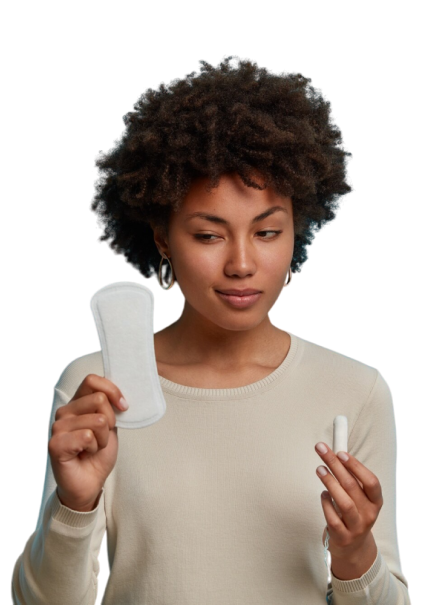
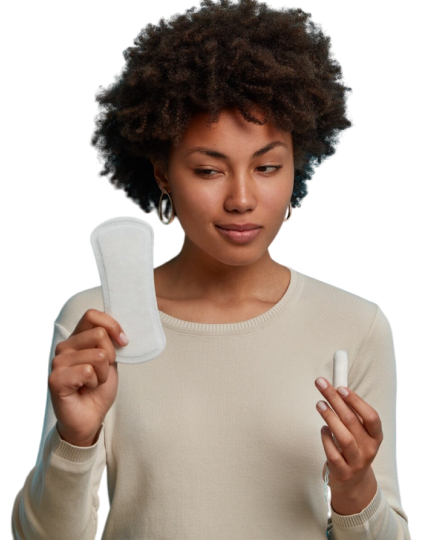
upate

diff --git a/src/app/pre-launch-2/page.tsx b/src/app/pre-launch-2/page.tsx
@@ -152,11 +152,11 @@ function Hero() {
                 name="email"
                 autoComplete="on"
                 placeholder="Enter your email"
-                className="bg-white text-xs md:text-base font-montserrat rounded-[10px] border border-[#D1D1D1] w-full p-3 md:p-5 text-body-text placeholder:text-body-text placeholder:text-opacity-50 font-medium flex-1 shadow-[inset_4px_4px_4px_rgba(0,0,0,0.25)]"
+                className="bg-white text-sm md:text-base font-montserrat rounded-[10px] border border-[#D1D1D1] w-full p-3 md:p-5 text-body-text placeholder:text-body-text placeholder:text-opacity-50 font-medium flex-1 shadow-[inset_4px_4px_4px_rgba(0,0,0,0.25)]"
               />
               <button
                 type="submit"
-                className="w-full pt-1 md:py-4 bg-[#BE046A] text-[30px] text-white rounded-[10px] shadow-[0px_15px_30px_-10px_#7754f645]"
+                className="w-full py-4 bg-[#BE046A] text-xl leading-[0.5] sm:text-[30px] text-white rounded-[10px] shadow-[0px_15px_30px_-10px_#7754f645]"
               >
                 Join The Waiting List
               </button>
@@ -168,7 +168,7 @@ function Hero() {
           alt="background"
           width={637}
           height={598}
-          className="w-full xl:max-w-[637px] translate-y-3"
+          className="w-screen -translate-x-6 sm:translate-x-0 sm:w-full max-w-none xl:max-w-[637px] translate-y-3"
         />
       </div>
     </section>
@@ -245,7 +245,7 @@ function OurProduct() {
             alt="girl with pad"
             className="self-center md:self-end flex-none mx-auto"
           />
-          <div className="sm:px-6 pt-12 sm:pt-16 pb-20 flex flex-col gap-8 self-center [&>*]:flex [&>*]:flex-col [&>*]:gap-4 [&_p]:text-sm md:[&_p]:text-xl [&_p]:font-normal [&_li]:text-sm [&_li]:font-normal md:[&_li]:text-xl [&_h2]:text-4xl md:[&_h2]:text-[50px] [&_h2]:font-jomhuria [&_h2]:leading-[0.5] [&_h2]:drop-shadow-[0px_4px_8px_rgba(190,4,106,0.39)]">
+          <div className="sm:px-6 pt-12 sm:pt-16 pb-8 sm:pb-20 flex flex-col gap-8 self-center [&>*]:flex [&>*]:flex-col [&>*]:gap-4 [&_p]:text-sm md:[&_p]:text-xl [&_p]:font-normal [&_li]:text-sm [&_li]:font-normal md:[&_li]:text-xl [&_h2]:text-4xl md:[&_h2]:text-[50px] [&_h2]:font-jomhuria [&_h2]:leading-[0.5] [&_h2]:drop-shadow-[0px_4px_8px_rgba(190,4,106,0.39)]">
             <div className="flex flex-col">
               <h2>Our Product</h2>
               <p className="font-montserrat">
@@ -415,9 +415,9 @@ function WhyUs() {
         </div>
       </div>
       <div className="container">
-        <div className="flex items-center flex-col  text-center gap-9 max-w-[829px] mx-auto text-whi">
+        <div className="flex items-center flex-col  text-center gap-2.5 sm:gap-9 max-w-[829px] mx-auto text-whi">
           <h2 className="text-sm md:text-2xl font-montserrat">Our Promise</h2>
-          <p className="text-[clamp(36px,10.5vw,150px)] leading-[0.75] drop-shadow-[0_4px_4px_#00000020]">
+          <p className="text-[clamp(36px,10.5vw,150px)] mx-auto max-w-[85%] leading-[0.75] drop-shadow-[0_4px_4px_#00000020]">
             Empowering Menstrual Health with{" "}
             <span className="text-[#FCF298]">Earth-Friendly</span> Solutions
           </p>
@@ -495,7 +495,7 @@ const heartBeat: Variants = {
 function Footer() {
   return (
     <footer className="relative bg-[#FFFEF2] overflow-x-clip flex flex-col">
-      <div className="container py-6 pb-56 sm:py-10 md:py-32">
+      <div className="container py-6 pb-8 sm:py-10 md:py-32">
         <div className="grid grid-cols-1 lg:grid-cols-2 items-center gap-10 sm:gap-32">
           <form className="flex flex-col gap-5 font-noto text-body-text">
             <header className=" flex flex-col gap-5">
@@ -517,20 +517,20 @@ function Footer() {
                 name="name"
                 placeholder="Your name"
                 autoComplete="on"
-                className="px-6 py-5 font-montserrat rounded-[10px] leading-none bg-[#FCF298] border border-[#D1D1D1] placeholder:text-body-text border-opacity-50 placeholder:opacity-50"
+                className="px-6 py-5 font-montserrat text-sm md:text-base rounded-[10px] leading-none bg-[#FCF298] border border-[#D1D1D1] placeholder:text-body-text border-opacity-50 placeholder:opacity-50"
               />
               <input
                 type="email"
                 name="email"
                 autoComplete="on"
                 placeholder="Email Address"
-                className="px-6 py-5 font-montserrat rounded-[10px] leading-none bg-[#FCF298] border border-[#D1D1D1] placeholder:text-body-text border-opacity-50 placeholder:opacity-50"
+                className="px-6 py-5 font-montserrat text-sm md:text-base rounded-[10px] leading-none bg-[#FCF298] border border-[#D1D1D1] placeholder:text-body-text border-opacity-50 placeholder:opacity-50"
               />
               <textarea
                 name="mesage"
                 rows={5}
-                placeholder="Write message, Your insights are invaluable. Drop us a message!"
-                className="px-6 py-5 font-montserrat rounded-[10px] bg-[#FCF298] placeholder:text-body-text border-opacity-50 placeholder:opacity-50"
+                placeholder="Your insights are invaluable. Drop us a message!"
+                className="px-6 py-5 font-montserrat text-sm md:text-base rounded-[10px] bg-[#FCF298] placeholder:text-body-text border-opacity-50 placeholder:opacity-50"
               ></textarea>
             </div>
             <footer className="flex items-center gap-2">

diff --git a/src/app/layout.tsx b/src/app/layout.tsx
@@ -10,7 +10,7 @@ const notoSansMono = Noto_Sans_Mono({
 
 const dmSans = DM_Sans({
   subsets: ["latin"],
-  weight: ["600", "700"],
+  weight: ["400", "600", "700"],
   variable: "--dm-sans",
 });
 
